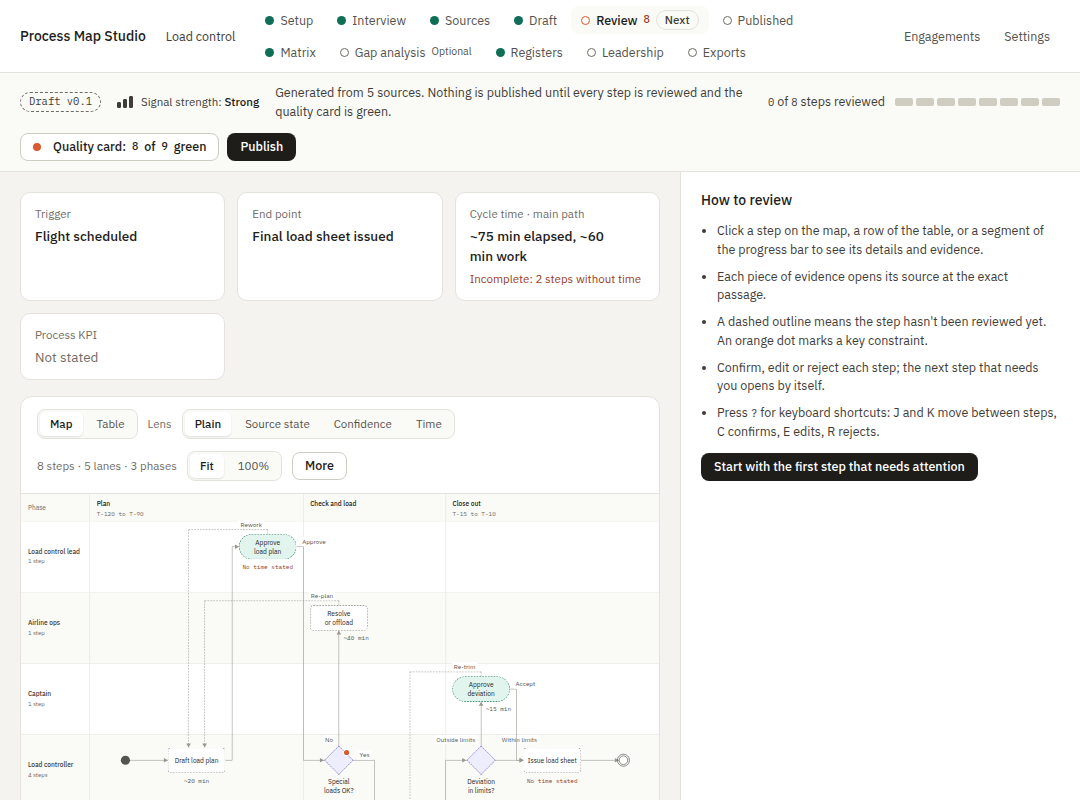
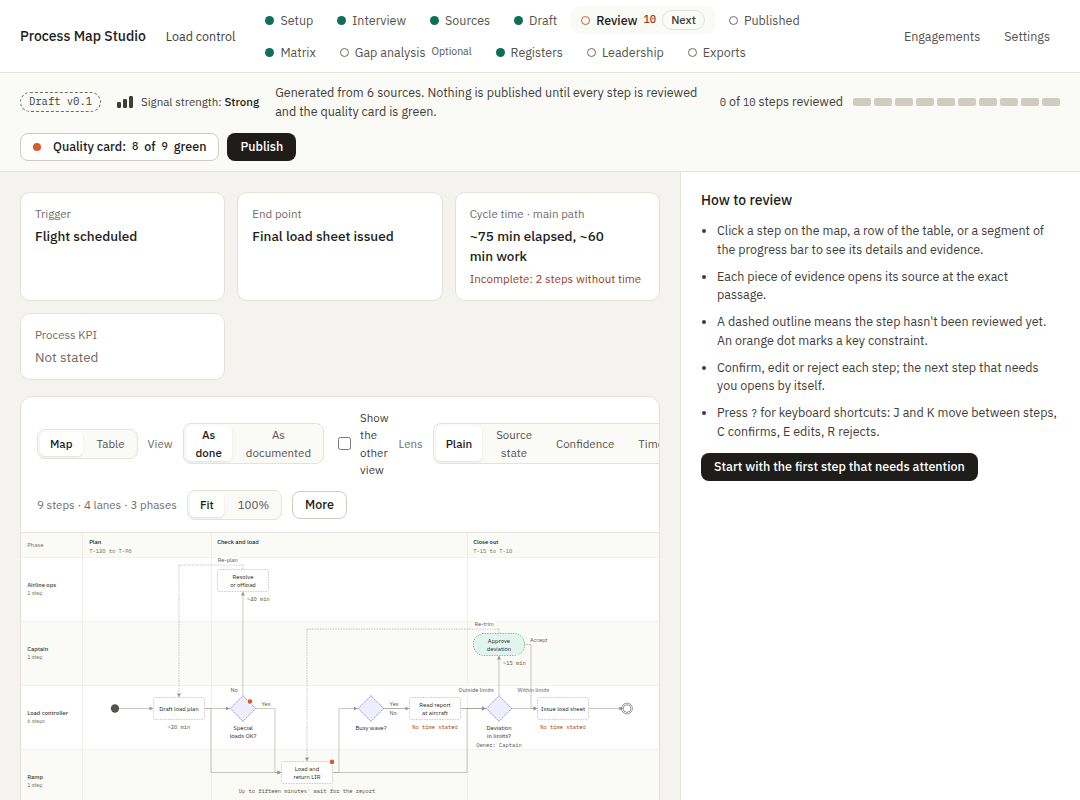
Use the approved Review screenshots as the visual baseline; record decisions A to C
Claude-Session: https://claude.ai/code/session_015fu8rvp8x8i73CNVXAvCz5

diff --git a/DECISIONS.md b/DECISIONS.md
@@ -303,6 +303,8 @@ One line per decision, including every library and SDK method verified. Settled 
 | 2026-10-05 | **K0: schema and vocabulary synced to PRD v1.11** (as T1 did for v1.10). Migration 0012 (additive): seven tables (event_logs, events, case_key_maps, activity_alignment, mining_metrics, role_costs, value_assumptions) and six nullable element columns (disposition, disposition_suggested, disposition_reason, risk_flag, time_override_min, volume_override_month); nothing reads or writes them until P10b. `events` has no resource or user column (constraint 24; a test checks it). Enums B.40–B.43 added; B.41 is `StepDisposition` because `Disposition` already names B.25 (finding disposition) — the enum test caught the clash. Values whose behaviour isn't built (B.1 group_notes, working_spreadsheet, email_thread; five B.22 system findings; B.34 system_trace) are listed as pending in the enum test and removed when their phase adds them. The 0009 downgrade test now measures from revision 0009 (it measured from the newest revision, so 0012's columns looked like 0009's) | PRD §3.5 holds every table from the start; the PRD-reading tests stay meaningful | Leaving the schema behind the PRD until P10b (two tests red) |
 | 2026-10-05 | **K1 (V3b): confirm or change a step's work type** (`PUT /elements/{eid}/work-type`, contract first; criterion 54, P6 build list). Confirming the proposed type sets `work_type_status: confirmed` and leaves the step's review status alone (confirming the kind of work is not reviewing the step); changing it is Eric's edit, so the step becomes `edited` and locked. A confirmed type on a step Eric hasn't otherwise reviewed is carried to the fresh run's step with the same key on refresh. Complex or chaotic: an automation-candidate flag is removed and a decision or approval marked rule-based becomes judgment (constraint 7, criterion 55), both in the audit row; the edit form now refuses an automation flag on complex or chaotic work. Classifying a step answers its "Work type not clear" question. Panel 4a: Confirm work type · Change work type (choice of the five types with what complex means); not offered on a published version or a rejected step | PRD §4 Review lists the endpoint; §6.3 P6 "confirm or change work type"; the refresh rule keeps Eric's choices (constraint 8) without locking a step he hasn't reviewed | Locking the whole step on a type confirmation (it would count as reviewed without Eric confirming its other fields) |
 | 2026-10-05 | **C5a: interviewee profiles** (contract first: `POST·GET /engagements/{id}/profiles`, `PATCH /profiles/{pid}`; PRD §4 lists `previous_profile_id`, the 0009 column is `previous_profile_session`, the repository maps the name). A profile is a role or a stakeholder group (one of them required), never a person: texts are scanned against the hidden-names list and the name is never echoed (constraint 10); a follow-up may name an earlier profile of the same engagement, never itself. Audit rows "Added/Edited interviewee profile". No delete endpoint (the PRD lists none). Interview screen: an **Interviewees** section above the templates (empty state with one action, list, add and edit form; the earlier-interview choice appears for follow-ups) | PRD §3.12.8, F.8 rule 1; criterion 69 (profile half) | Asking for the interviewee's name (constraint 10) |
+| 2026-10-06 | **Eric approved the v4 Review screenshots** (`v4-candidate-review-1440x900.png`, `-1080x800.png`; map opens As done, stitched lines). Copied over the visual baselines `docs/screens/p7-review-1440x900.png` and `-1080x800.png`; the browser checks pass 15 of 15 against them | Constraint: baselines change only after Eric approves | — |
+| 2026-10-06 | **Eric chose the recommended options for decisions A, B and C** (v1.11 impact table). A: optional-module switches exactly as the Settings card lists them (gap analysis, web research, system records, value calculator); gap analysis on and web research off by default as today, system records and value calculator off until he turns them on (built with P10b). B: quality card Q11 and Q12, the L12 work-type and stories warnings and the Master Process Map to §7.3 in one core increment; every §7.3 heading always printed, "Not used in this engagement" where a module is off; new G3 and G5 shown as candidates under `docs/review/` and saved as goldens only after his approval. C: landscape nesting (rule 9) proved with a crafted test case; fixture A.10 stays as the PRD gives it | Eric's choice, 2026-10-06 | The alternatives listed in the impact table |
 
 ## PRD v1.11 impact table (2026-10-05)
 Compared with `git diff PRD_ProcessMapStudio.md` (v1.10 → v1.11, +228 / −35 lines). Core = P0a–P7 plus P4b; everything else is optional.

diff --git a/PROJECT_STATE.md b/PROJECT_STATE.md
@@ -42,7 +42,7 @@ Start: working tree clean at 959a7ab (no increment in progress); last clean-copy
 - [x] K1 — V3b (P6): `PUT /elements/{eid}/work-type` (confirm keeps the review status, change is an edit; kept through refresh; complex or chaotic drops an automation flag and makes a decision a judgment); the edit form refuses automation on complex work; panel 4a Confirm / Change; latency, screen and browser checks
 - [ ] K2 — *waits for decision C and approval of G1* (the graph JSON gains `level` and `parent_element_id`, PRD §3.6, so G1 changes): Rule 9 (P4b) and layout rule 10 (P5): element level and parent from landscape interviews, finest level drawn, "Part of" in the panel, table grouped (decision C, recommended option: crafted test case)
 - [ ] K3 — *waits for decision B*: Q11 and Q12 on the quality card, L12 warnings (work types not confirmed, fewer than three stories), the Master Process Map to §7.3 (View column, both views, F/I/R content) and the HTML export with both views; G3 and G5 candidates saved under `docs/review/` for Eric's approval
-- [ ] K4 — *waits for Eric*: approve the v4 Review candidates (`docs/screens/v4-candidate-review-1440x900.png`, `-1080x800.png`) → copy over `p7-review-*.png`; 13 of 13
+- [x] K4 — Eric approved the v4 Review candidates (2026-10-06): copied over `docs/screens/p7-review-*.png`; browser checks 15 of 15
 (b) Finish P4c
 - [x] C5a — interviewee profiles (`/engagements/{id}/profiles`, `PATCH /profiles/{pid}`, contract first; roles or groups only, hidden names refused; audited) and the Interview screen **Interviewees** section (add, list, edit); screen, browser (axe) and latency checks
 - [ ] C5b — `IG_generate` (AI, mocked): tailored Landscape / Practice / Follow-up guides with the F.3 opener, role modules and F.8 tailoring rules; checks (IDs, probes, targets, SOP claims only in M6–M7, time budget, no names, no banned words)
